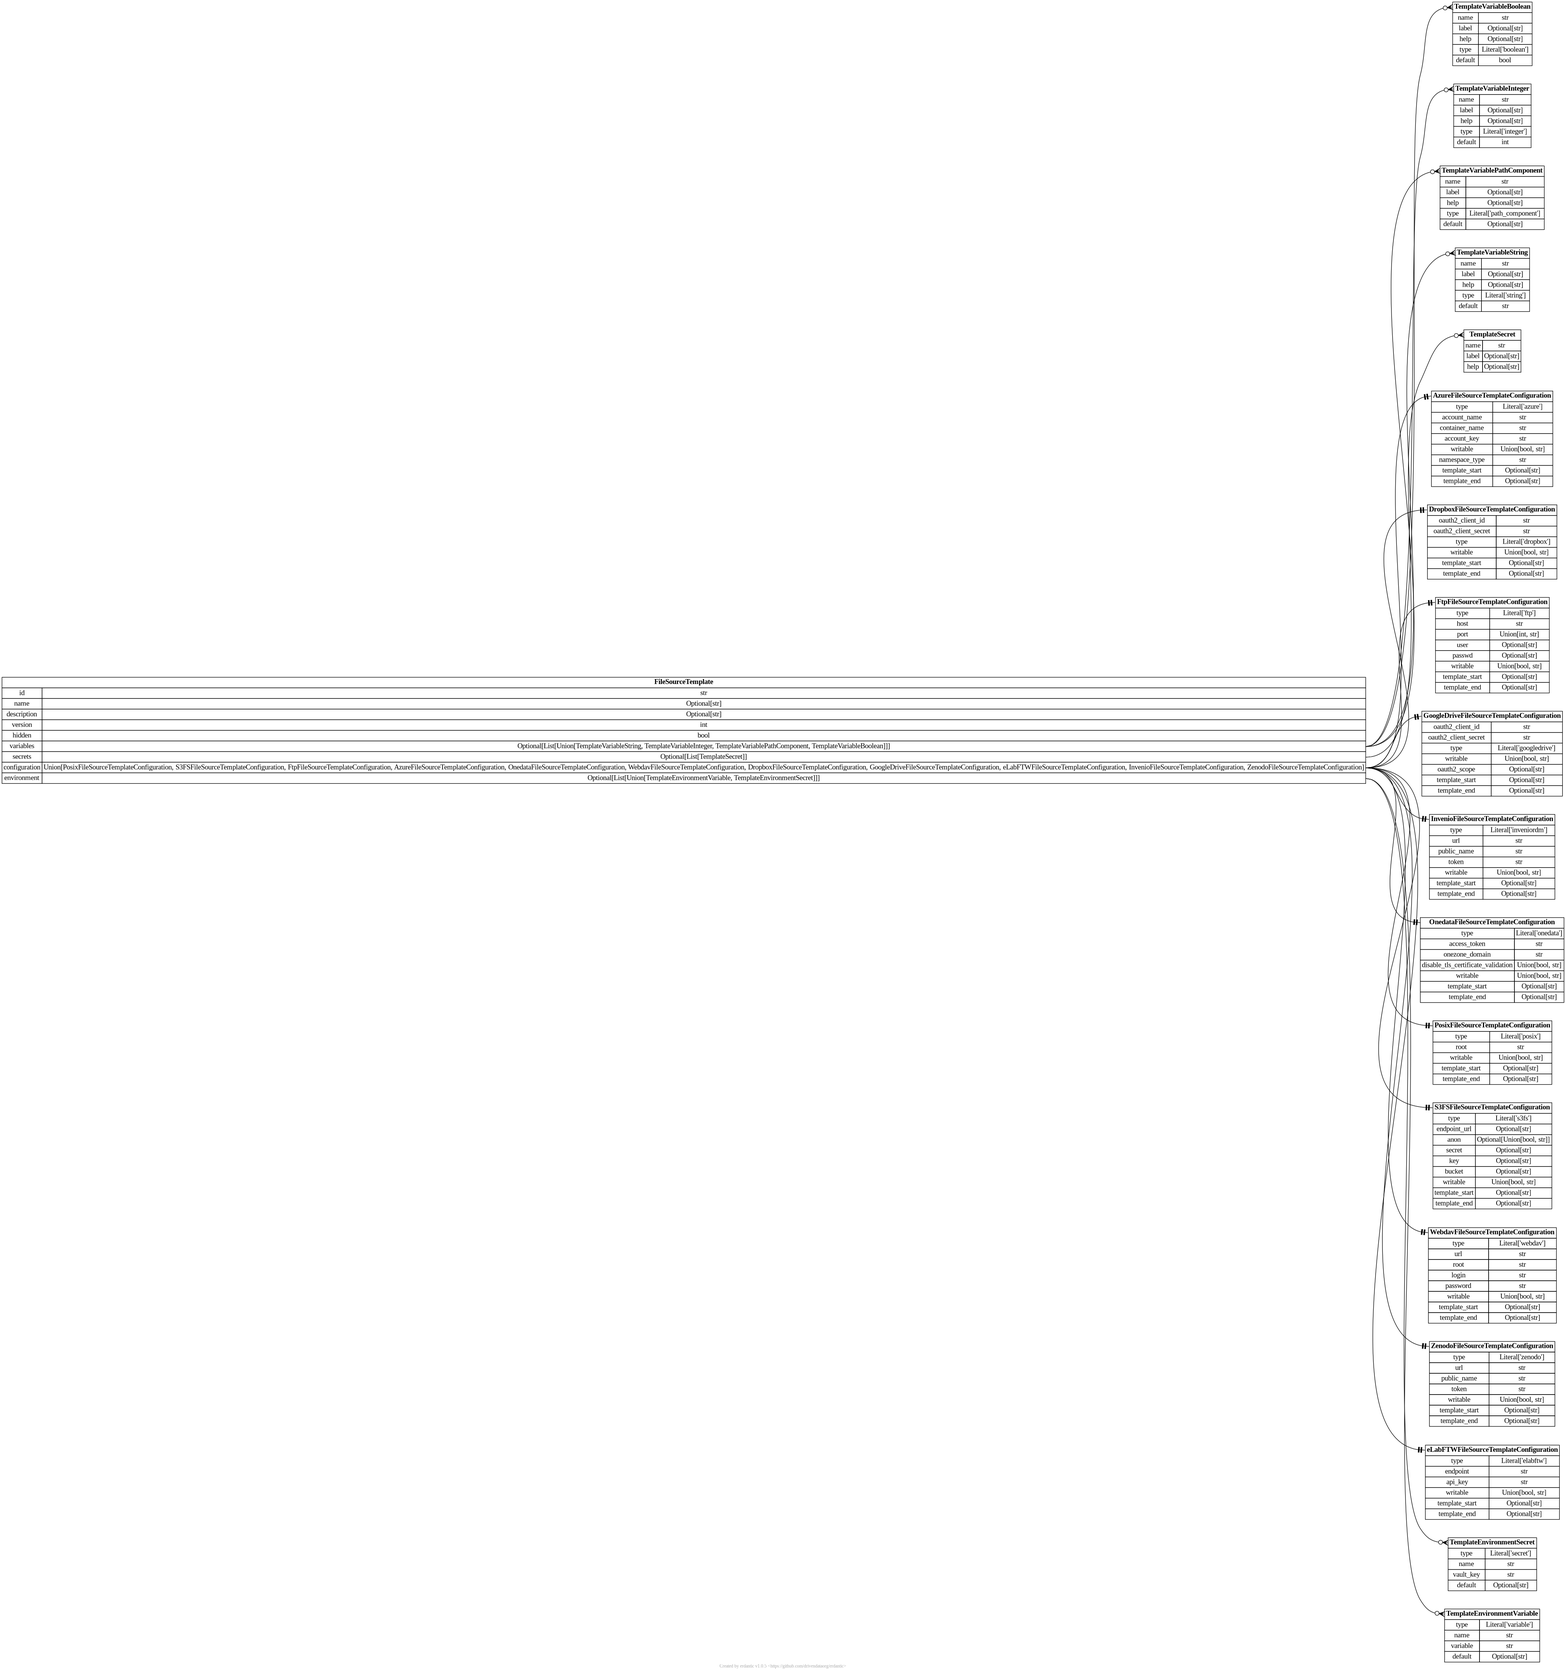
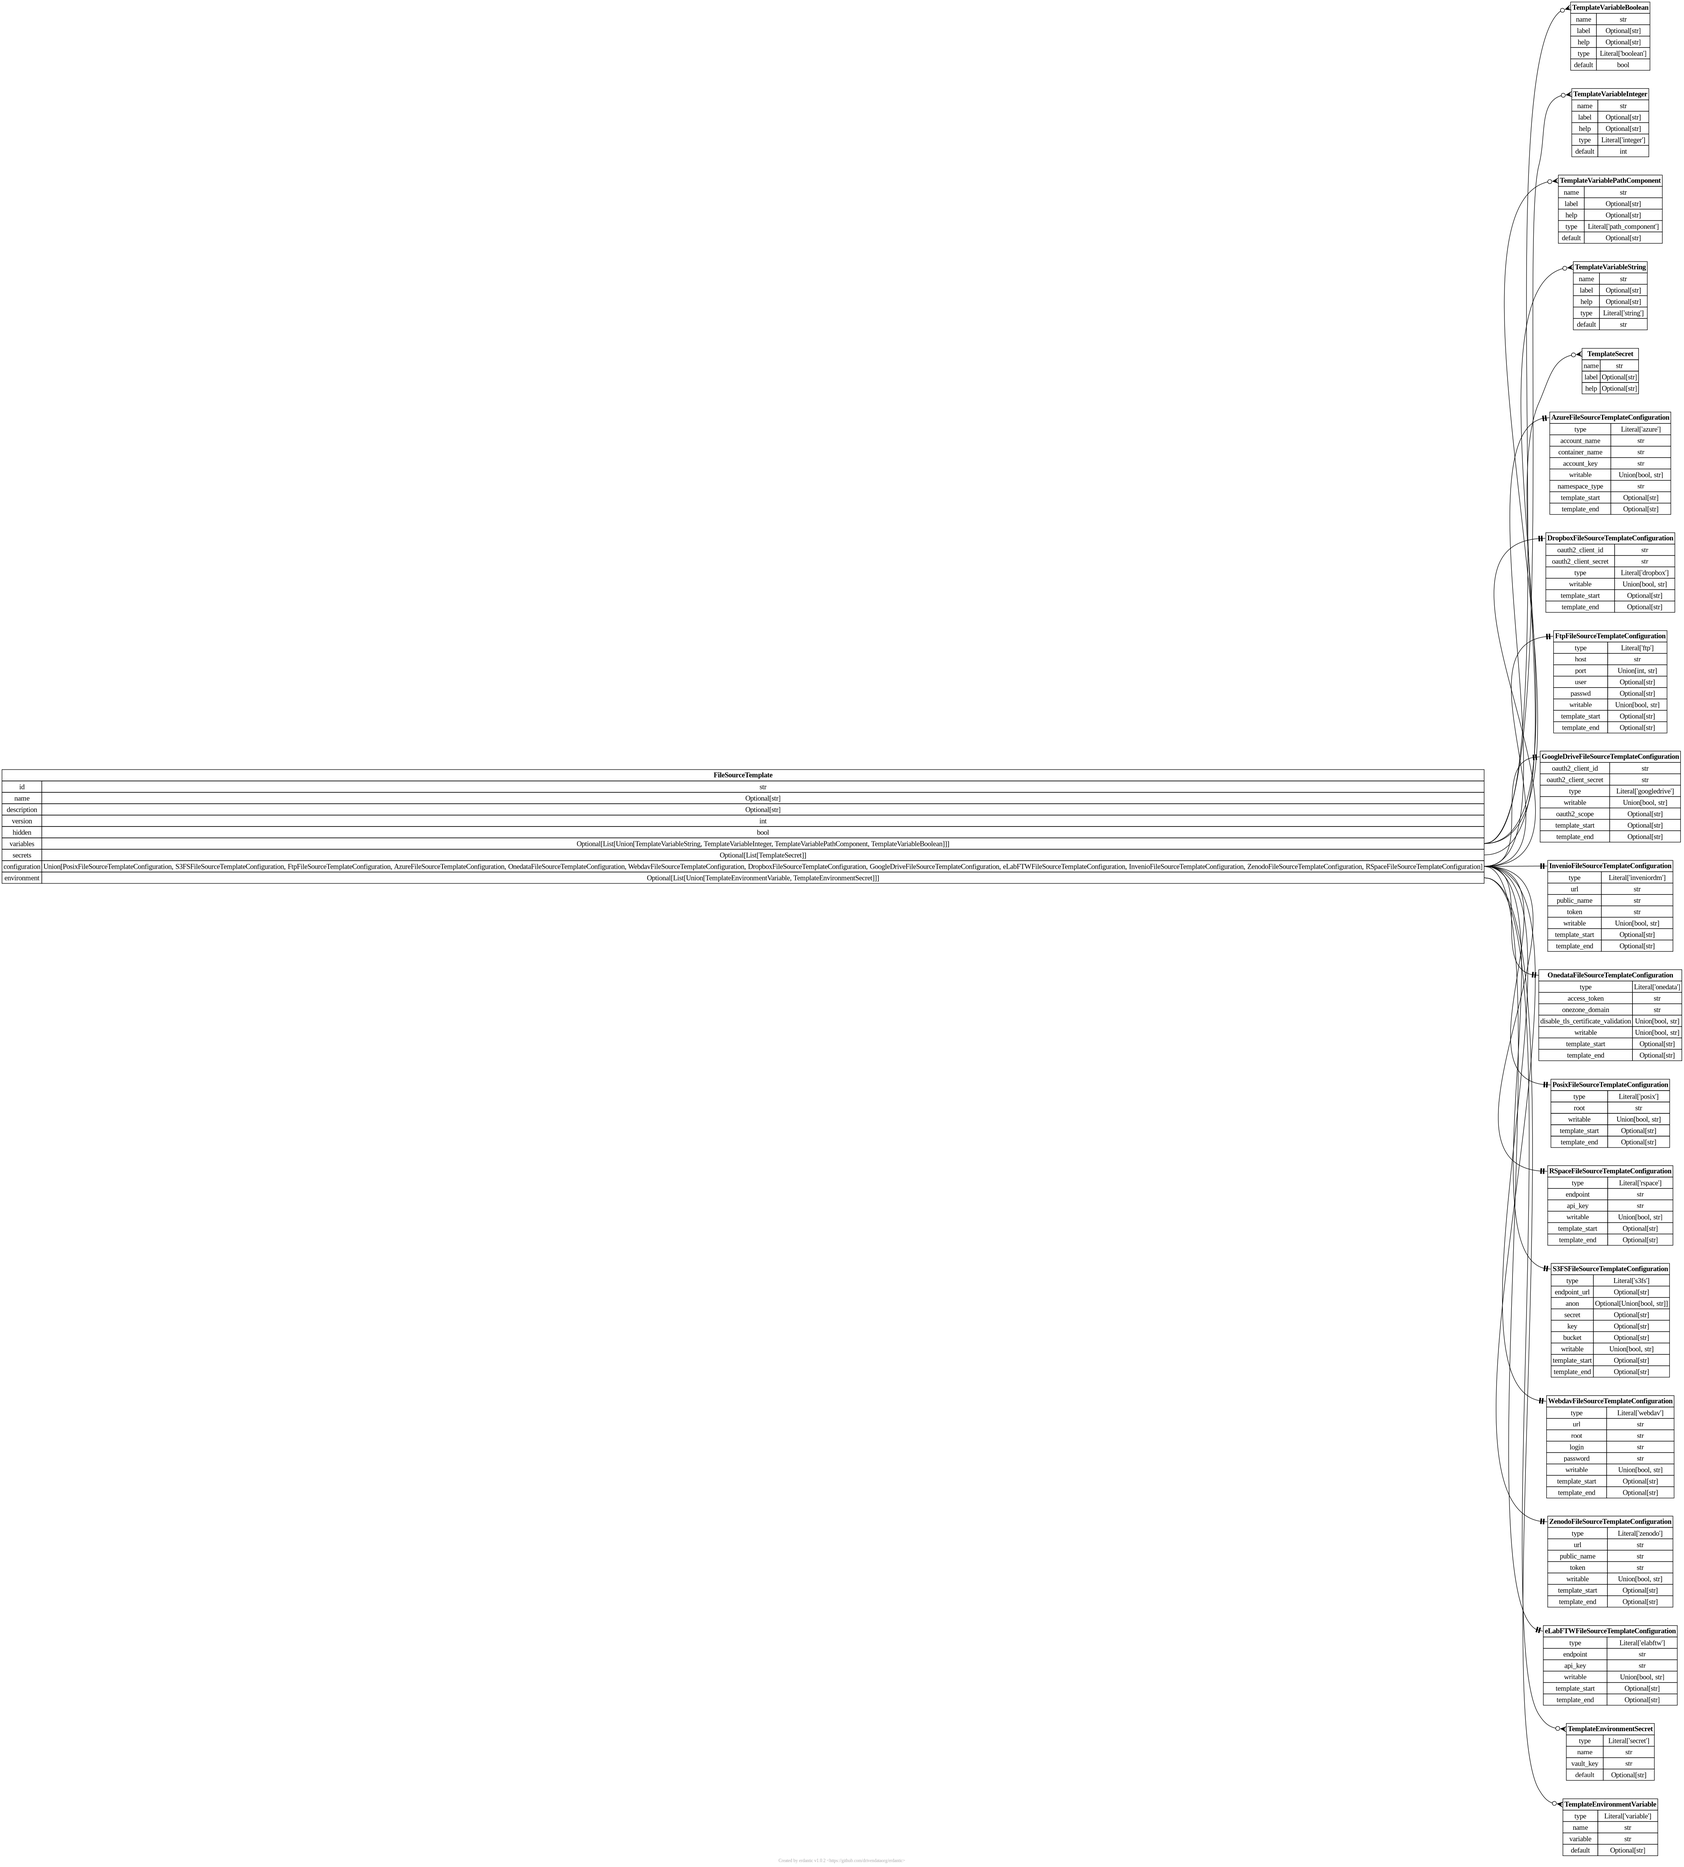
Implement file source to integrate Galaxy with RSpace
This commit implements a FilesSource that interacts with an RSpace [1] instance and includes a file source template so that users can define their own file sources based on it.

RSpace is an electronic lab notebook
(ELN) designed for documenting, managing and sharing scientific data. The central concepts in RSpace are the Workspace,
the Inventory and the Gallery.

The Workspace's role is organizing and managing research activities. It allows creating documents, folders and research
notebooks [2]. The Inventory is a tool to keep track of laboratory resources, such as reagents, samples and equipment
[3]. The Gallery is where any research data represented as files is stored [4].

The FilesSource implemented by this module accesses the Gallery of an RSpace instance. The Gallery is organized in
categories (e.g. Images, Audio, Documents, Chemistry), where each category is itself a tree structure with folders and
files just like a regular filesystem, although there is a key difference: categories and their subfolders can only
contain files of certain types (e.g. jpeg, bmp, png, etc. for the Images category).

This implementation is based on the rspace-client-python` library [5], which provides a PyFilesystem2 [6] interface
to interact with RSpace's Gallery (available as `GalleryFilesystem` in the rspace_client.eln.fs` module). It
consists just of a minimal wrapper (based on the base `PyFilesystem2FilesSource` provided by Galaxy) around the
`GalleryFilesystem` class.

References:
[…]

Changed region(s): [[0.0, 0.0, 1.0, 0.9941], [0.4688, 0.9941, 0.5312, 1.0]]

diff --git a/client/src/api/schema/schema.ts b/client/src/api/schema/schema.ts
@@ -9387,7 +9387,8 @@ export interface components {
                 | "googledrive"
                 | "elabftw"
                 | "inveniordm"
-                | "zenodo";
+                | "zenodo"
+                | "rspace";
             /** Variables */
             variables?:
                 | (
@@ -17885,7 +17886,8 @@ export interface components {
                 | "googledrive"
                 | "elabftw"
                 | "inveniordm"
-                | "zenodo";
+                | "zenodo"
+                | "rspace";
             /** Uri Root */
             uri_root: string;
             /**

diff --git a/client/src/components/FileSources/FileSourceTypeSpan.vue b/client/src/components/FileSources/FileSourceTypeSpan.vue
@@ -15,6 +15,7 @@ const MESSAGES = {
     elabftw: "This is a remote file source that connects with an eLabFTW instance.",
     inveniordm: "This is a remote file source that connects with an InvenioRDM instance.",
     zenodo: "This is a remote file source that connects with https://zenodo.org/.",
+    rspace: "This is a remote file source that connects with an RSpace instance.",
 };
 
 interface Props {

diff --git a/client/src/api/fileSources.ts b/client/src/api/fileSources.ts
@@ -58,6 +58,10 @@ export const templateTypes: FileSourceTypesDetail = {
         icon: faNetworkWired,
         message: "This is a remote file source that connects with the Zenodo instance.",
     },
+    rspace: {
+        icon: faNetworkWired,
+        message: "This is a remote file source that connects with the Gallery of an RSpace instance.",
+    },
 };
 
 export const FileSourcesValidFilters = {

diff --git a/lib/galaxy/files/sources/rspace.py b/lib/galaxy/files/sources/rspace.py
@@ -1,0 +1,217 @@
+"""
+Galaxy FilesSource implementation for RSpace.
+
+This module implements a FilesSource that interacts with an RSpace [1] instance. RSpace is an electronic lab notebook
+(ELN) designed for documenting, managing and sharing scientific data. The central concepts in RSpace are the Workspace,
+the Inventory and the Gallery.
+
+The Workspace's role is organizing and managing research activities. It allows creating documents, folders and research
+notebooks [2]. The Inventory is a tool to keep track of laboratory resources, such as reagents, samples and equipment
+[3]. The Gallery is where any research data represented as files is stored [4].
+
+The FilesSource implemented by this module accesses the Gallery of an RSpace instance. The Gallery is organized in
+categories (e.g. Images, Audio, Documents, Chemistry), where each category is itself a tree structure with folders and
+files just like a regular filesystem, although there is a key difference: categories and their subfolders can only
+contain files of certain types (e.g. jpeg, bmp, png, etc. for the Images category).
+
+This implementation is based on the ``rspace-client-python`` library [5], which provides a PyFilesystem2 [6] interface
+to interact with RSpace's Gallery (available as ``GalleryFilesystem`` in the ``rspace_client.eln.fs`` module). It
+consists just of a minimal wrapper (based on the base ``PyFilesystem2FilesSource`` provided by Galaxy) around the
+``GalleryFilesystem`` class.
+
+References:
+
+- [1] https://www.researchspace.com/
+- [2] https://documentation.researchspace.com/article/bzgr8ea9e3-the-workspace
+- [3] https://documentation.researchspace.com/category/zpizk20kgx-inventory
+- [4] https://documentation.researchspace.com/article/sl6mo1i9do-the-gallery
+- [5] https://github.com/rspace-os/rspace-client-python
+- [6] https://docs.pyfilesystem.org/
+"""
+
+import datetime
+import os.path
+from types import MethodType
+from typing import (
+    Any,
+    BinaryIO,
+    cast,
+    IO,
+    Optional,
+    Union,
+)
+
+from galaxy.files import OptionalUserContext
+from . import (
+    AnyRemoteEntry,
+    FilesSourceOptions,
+    FilesSourceProperties,
+    RemoteDirectory,
+    RemoteFile,
+)
+from ._pyfilesystem2 import PyFilesystem2FilesSource
+
+try:
+    from rspace_client.eln.fs import GalleryFilesystem as RSpaceGalleryFilesystem
+except ImportError:
+    RSpaceGalleryFilesystem = None
+
+__all__ = ("RSpaceFilesSource",)
+
+
+class FakedNameIO:
+    """
+    A wrapper around a file-like object that fakes the name attribute.
+
+    The name attribute is used by `requests` (that `rspace-client-python` depends on) to determine the mime type. RSpace
+    will reject uploads to the Gallery that do not match the file types accepted by the target folder (e.g. no `.dat`
+    files allowed in the "Images" folder).
+
+    Galaxy datasets are stored in the filesystem with the `.dat` extension. Therefore, the ability to fake the name (and
+    thus the extension) is essential to be able to upload files to any RSpace folder other than "Miscellaneous" without
+    having to alter the `rspace-client-python` library itself.
+    """
+
+    def __init__(self, handle: IO, name: Optional[str] = None):
+        """Initialize the wrapper from an existing file-like object."""
+        self._handle = handle
+        self._name = name
+
+    @property
+    def name(self) -> str:
+        """Retrieve the faked name if it was provided, otherwise retrieve the original file name."""
+        return self._name or self._handle.name
+
+    def __getattr__(self, name):
+        """Retrieve any other attribute."""
+        return getattr(self._handle, name)
+
+
+if RSpaceGalleryFilesystem is not None:
+
+    class PatchedRSpaceGalleryFilesystem(RSpaceGalleryFilesystem):
+        """
+        Patch RSpaceGalleryFilesystem to keep a record of the RSpace global id of the most recently uploaded file.
+        """
+
+        upload_global_id: str
+        # The RSpace global id of the most recently uploaded file.
+
+        _upload_response: dict
+        # The response from the RSpace's API (in JSON format) after uploading a file.
+
+        def __init__(self, *args, **kwargs):
+            """
+            Initialize the RSpaceGalleryFilesystem and patch the `upload_file()` method to save the upload response.
+            """
+            super().__init__(*args, **kwargs)
+
+            # patch the `upload_file()` method to save the upload response
+            eln_client_upload_file_method = self.eln_client.upload_file
+
+            def upload_file(self_, file, folder_id=None, caption=None):
+                self._upload_response = eln_client_upload_file_method(file, folder_id=folder_id, caption=caption)
+
+            self.eln_client.upload_file = MethodType(upload_file, self.eln_client)
+
+        def upload(self, path: str, file: BinaryIO, chunk_size: Optional[int] = None, **options: Any) -> None:
+            """
+            Patch the `upload()` method to retrieve the global id from the saved upload response.
+            """
+            super().upload(path, file, chunk_size, **options)
+            self.upload_global_id = self._upload_response["globalId"]
+
+
+class RSpaceFilesSource(PyFilesystem2FilesSource):
+    plugin_type = "rspace"
+    required_module = RSpaceGalleryFilesystem
+    required_package = "rspace_client.eln.fs"
+
+    _upload_global_id: str
+    # The RSpace global id of the most recently uploaded file.
+
+    def _open_fs(self, user_context=None, opts: Optional[FilesSourceOptions] = None) -> RSpaceGalleryFilesystem:
+        """
+        Instantiate a PyFilesystem2 FS object for RSpace's Gallery.
+        """
+        props = self._serialization_props(user_context)
+        extra_props: Union[FilesSourceProperties, dict] = opts.extra_props or {} if opts else {}
+        all_props: dict = {**props, **extra_props}
+
+        endpoint = all_props["endpoint"]
+        api_key = all_props["api_key"]
+
+        # patch the `upload()` method to keep track of the global id of the most recently uploaded file, change the
+        # target path and fake the name of the file
+        gallery_fs = PatchedRSpaceGalleryFilesystem(endpoint, api_key)
+        gallery_fs_upload_method = gallery_fs.upload
+
+        def upload(self_, path: str, file: BinaryIO, chunk_size: Optional[int] = None, **options: Any) -> None:
+            gallery_fs_upload_method(
+                os.path.dirname(path),
+                cast(BinaryIO, FakedNameIO(file, name=os.path.basename(path))),
+                chunk_size,
+                **options,
+            )
+            self._upload_global_id = gallery_fs.upload_global_id
+
+        gallery_fs.upload = MethodType(upload, gallery_fs)  # type: ignore[method-assign]
+
+        return gallery_fs
+
+    def _write_from(
+        self,
+        target_path: str,
+        native_path: str,
+        user_context: OptionalUserContext = None,
+        opts: Optional[FilesSourceOptions] = None,
+    ) -> str:
+        """
+        Save a file to the RSpace Gallery.
+        """
+        target_directory = os.path.dirname(target_path)
+        super()._write_from(target_path, native_path, user_context=user_context, opts=opts)
+        return os.path.join(target_directory, self._upload_global_id)
+
+    def _resource_info_to_dict(self, dir_path, resource_info) -> AnyRemoteEntry:
+        """
+        Convert PyFilesystem2 resource information objects to dictionaries representing directories and files.
+
+        Display names for categories, directories and files in the RSpace Gallery are made available within the custom
+        namespace "rspace" (as well as creation dates). Names are available in the "basic" namespace are the internal
+        RSpace names, which are unique. Thus, those names from the "basic" namespace are used to generate the URIs for
+        the directories and files (remote entries).
+        """
+        basename = resource_info.get("basic", "name")
+        dirname = dir_path
+        path = os.path.join(dirname, basename)
+
+        dict_ = {
+            "name": resource_info.get("rspace", "name"),
+            "uri": self.uri_from_path(path),
+            "path": path,
+        }
+
+        entry: AnyRemoteEntry
+        if resource_info.is_dir:
+            dict_.update(
+                {
+                    "class": "Directory",
+                }
+            )
+            entry = RemoteDirectory(**cast(RemoteDirectory, dict_))
+        else:
+            dict_.update(
+                {
+                    "class": "File",
+                    "size": resource_info.size,
+                    "ctime": self.to_dict_time(
+                        datetime.datetime.fromisoformat(resource_info.get("rspace", "created")).astimezone(
+                            datetime.timezone.utc
+                        )
+                    ),
+                }
+            )
+            entry = RemoteFile(**cast(RemoteFile, dict_))
+
+        return entry

diff --git a/lib/galaxy/files/templates/models.py b/lib/galaxy/files/templates/models.py
@@ -48,6 +48,7 @@ FileSourceTemplateType = Literal[
     "elabftw",
     "inveniordm",
     "zenodo",
+    "rspace",
 ]
 
 
@@ -265,6 +266,22 @@ class ZenodoFileSourceConfiguration(StrictModel):
     writable: bool = True
 
 
+class RSpaceFileSourceTemplateConfiguration(StrictModel):
+    type: Literal["rspace"]
+    endpoint: Union[str, TemplateExpansion]
+    api_key: Union[str, TemplateExpansion]
+    writable: Union[bool, TemplateExpansion] = True
+    template_start: Optional[str] = None
+    template_end: Optional[str] = None
+
+
+class RSpaceFileSourceConfiguration(StrictModel):
+    type: Literal["rspace"]
+    endpoint: str
+    api_key: str
+    writable: bool = True
+
+
 FileSourceTemplateConfiguration = Annotated[
     Union[
         PosixFileSourceTemplateConfiguration,
@@ -278,6 +295,7 @@ FileSourceTemplateConfiguration = Annotated[
         eLabFTWFileSourceTemplateConfiguration,
         InvenioFileSourceTemplateConfiguration,
         ZenodoFileSourceTemplateConfiguration,
+        RSpaceFileSourceTemplateConfiguration,
     ],
     Field(discriminator="type"),
 ]
@@ -295,6 +313,7 @@ FileSourceConfiguration = Annotated[
         eLabFTWFileSourceConfiguration,
         InvenioFileSourceConfiguration,
         ZenodoFileSourceConfiguration,
+        RSpaceFileSourceConfiguration,
     ],
     Field(discriminator="type"),
 ]
@@ -370,6 +389,7 @@ TypesToConfigurationClasses: Dict[FileSourceTemplateType, Type[FileSourceConfigu
     "elabftw": eLabFTWFileSourceConfiguration,
     "inveniordm": InvenioFileSourceConfiguration,
     "zenodo": ZenodoFileSourceConfiguration,
+    "rspace": RSpaceFileSourceConfiguration,
 }
 
 

diff --git a/doc/source/admin/gen_diagrams.py b/doc/source/admin/gen_diagrams.py
@@ -25,6 +25,8 @@ from galaxy.files.templates.models import (
     WebdavFileSourceTemplateConfiguration,
     ZenodoFileSourceConfiguration,
     ZenodoFileSourceTemplateConfiguration,
+    RSpaceFileSourceConfiguration,
+    RSpaceFileSourceTemplateConfiguration,
 )
 from galaxy.objectstore.templates.models import (
     AwsS3ObjectStoreConfiguration,
@@ -73,6 +75,8 @@ class_to_diagram = {
     InvenioFileSourceConfiguration: "file_source_invenio_configuration",
     ZenodoFileSourceTemplateConfiguration: "file_source_zenodo_configuration_template",
     ZenodoFileSourceConfiguration: "file_source_zenodo_configuration",
+    RSpaceFileSourceTemplateConfiguration: "file_source_rspace_configuration_template",
+    RSpaceFileSourceConfiguration: "file_source_rspace_configuration",
 }
 
 for clazz, diagram_name in class_to_diagram.items():

diff --git a/lib/galaxy/dependencies/__init__.py b/lib/galaxy/dependencies/__init__.py
@@ -278,6 +278,9 @@ class ConditionalDependencies:
     def check_fs_basespace(self):
         return "basespace" in self.file_sources
 
+    def check_rspace_client(self):
+        return "rspace" in self.file_sources
+
     def check_watchdog(self):
         install_set = {"auto", "True", "true", "polling", True}
         return self.config["watch_tools"] in install_set or self.config["watch_tool_data_dir"] in install_set

diff --git a/doc/source/admin/search_for_new_screenshots.py b/doc/source/admin/search_for_new_screenshots.py
@@ -25,6 +25,7 @@ SEARCH_FOR = [
     "user_file_source_form_full_webdav.png",
     "user_file_source_form_full_elabftw.png",
     "user_file_source_form_full_invenio.png",
+    "user_file_source_form_full_rspace.png",
 ]
 
 

diff --git a/doc/source/admin/data.md b/doc/source/admin/data.md
@@ -412,6 +412,19 @@ configuration).
 
 ![](file_source_zenodo_configuration.png)
 
+#### `rspace`
+
+The syntax for the `configuration` section of `rspace` templates looks like this.
+
+![](file_source_rspace_configuration_template.png)
+
+At runtime, after the `configuration` template is expanded, the resulting dictionary
+passed to Galaxy's file source plugin infrastructure looks like this and should match a subset
+of what you'd be able to add directly to `file_sources_conf.yml` (Galaxy's global file source
+configuration).
+
+![](file_source_rspace_configuration.png)
+
 ### YAML Syntax
 
 ![galaxy.files.templates.models](file_source_templates.png)
@@ -491,6 +504,15 @@ and you are comfortable with it storing your user's secrets.
 ```
 
 ![Screenshot](user_file_source_form_full_zenodo.png)
+
+#### Allow Users to Define RSpace Instances as File Sources
+
+```{literalinclude} ../../../lib/galaxy/files/templates/examples/production_rspace.yaml
+:language: yaml
+```
+
+![Screenshot](user_file_source_form_full_rspace.png)
+
 
 ### Production OAuth 2.0 File Source Templates
 
